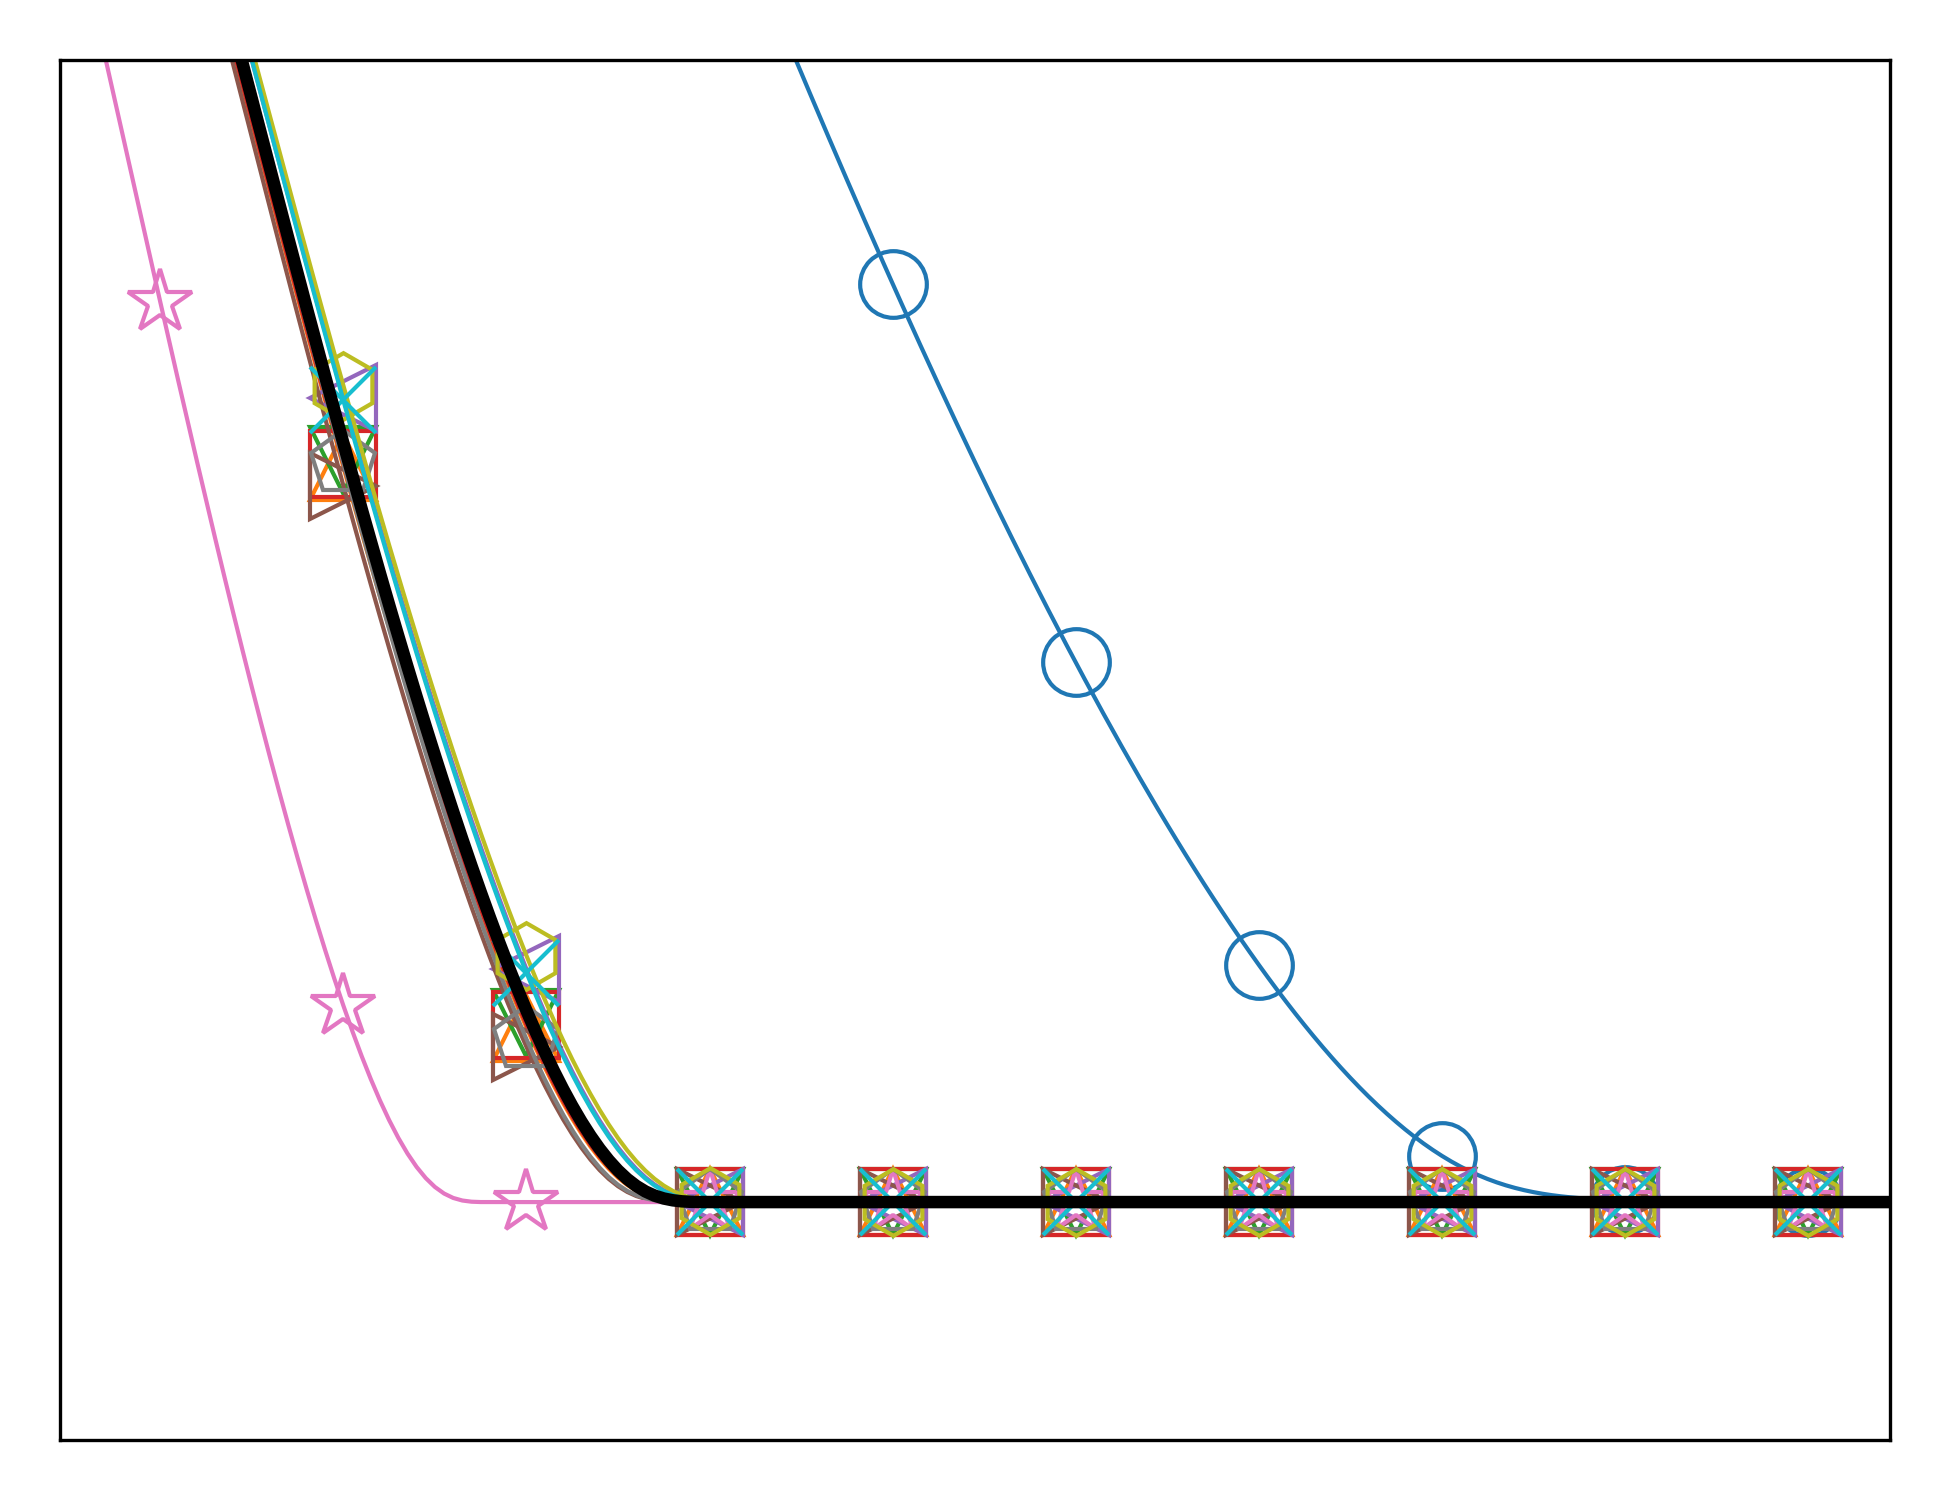
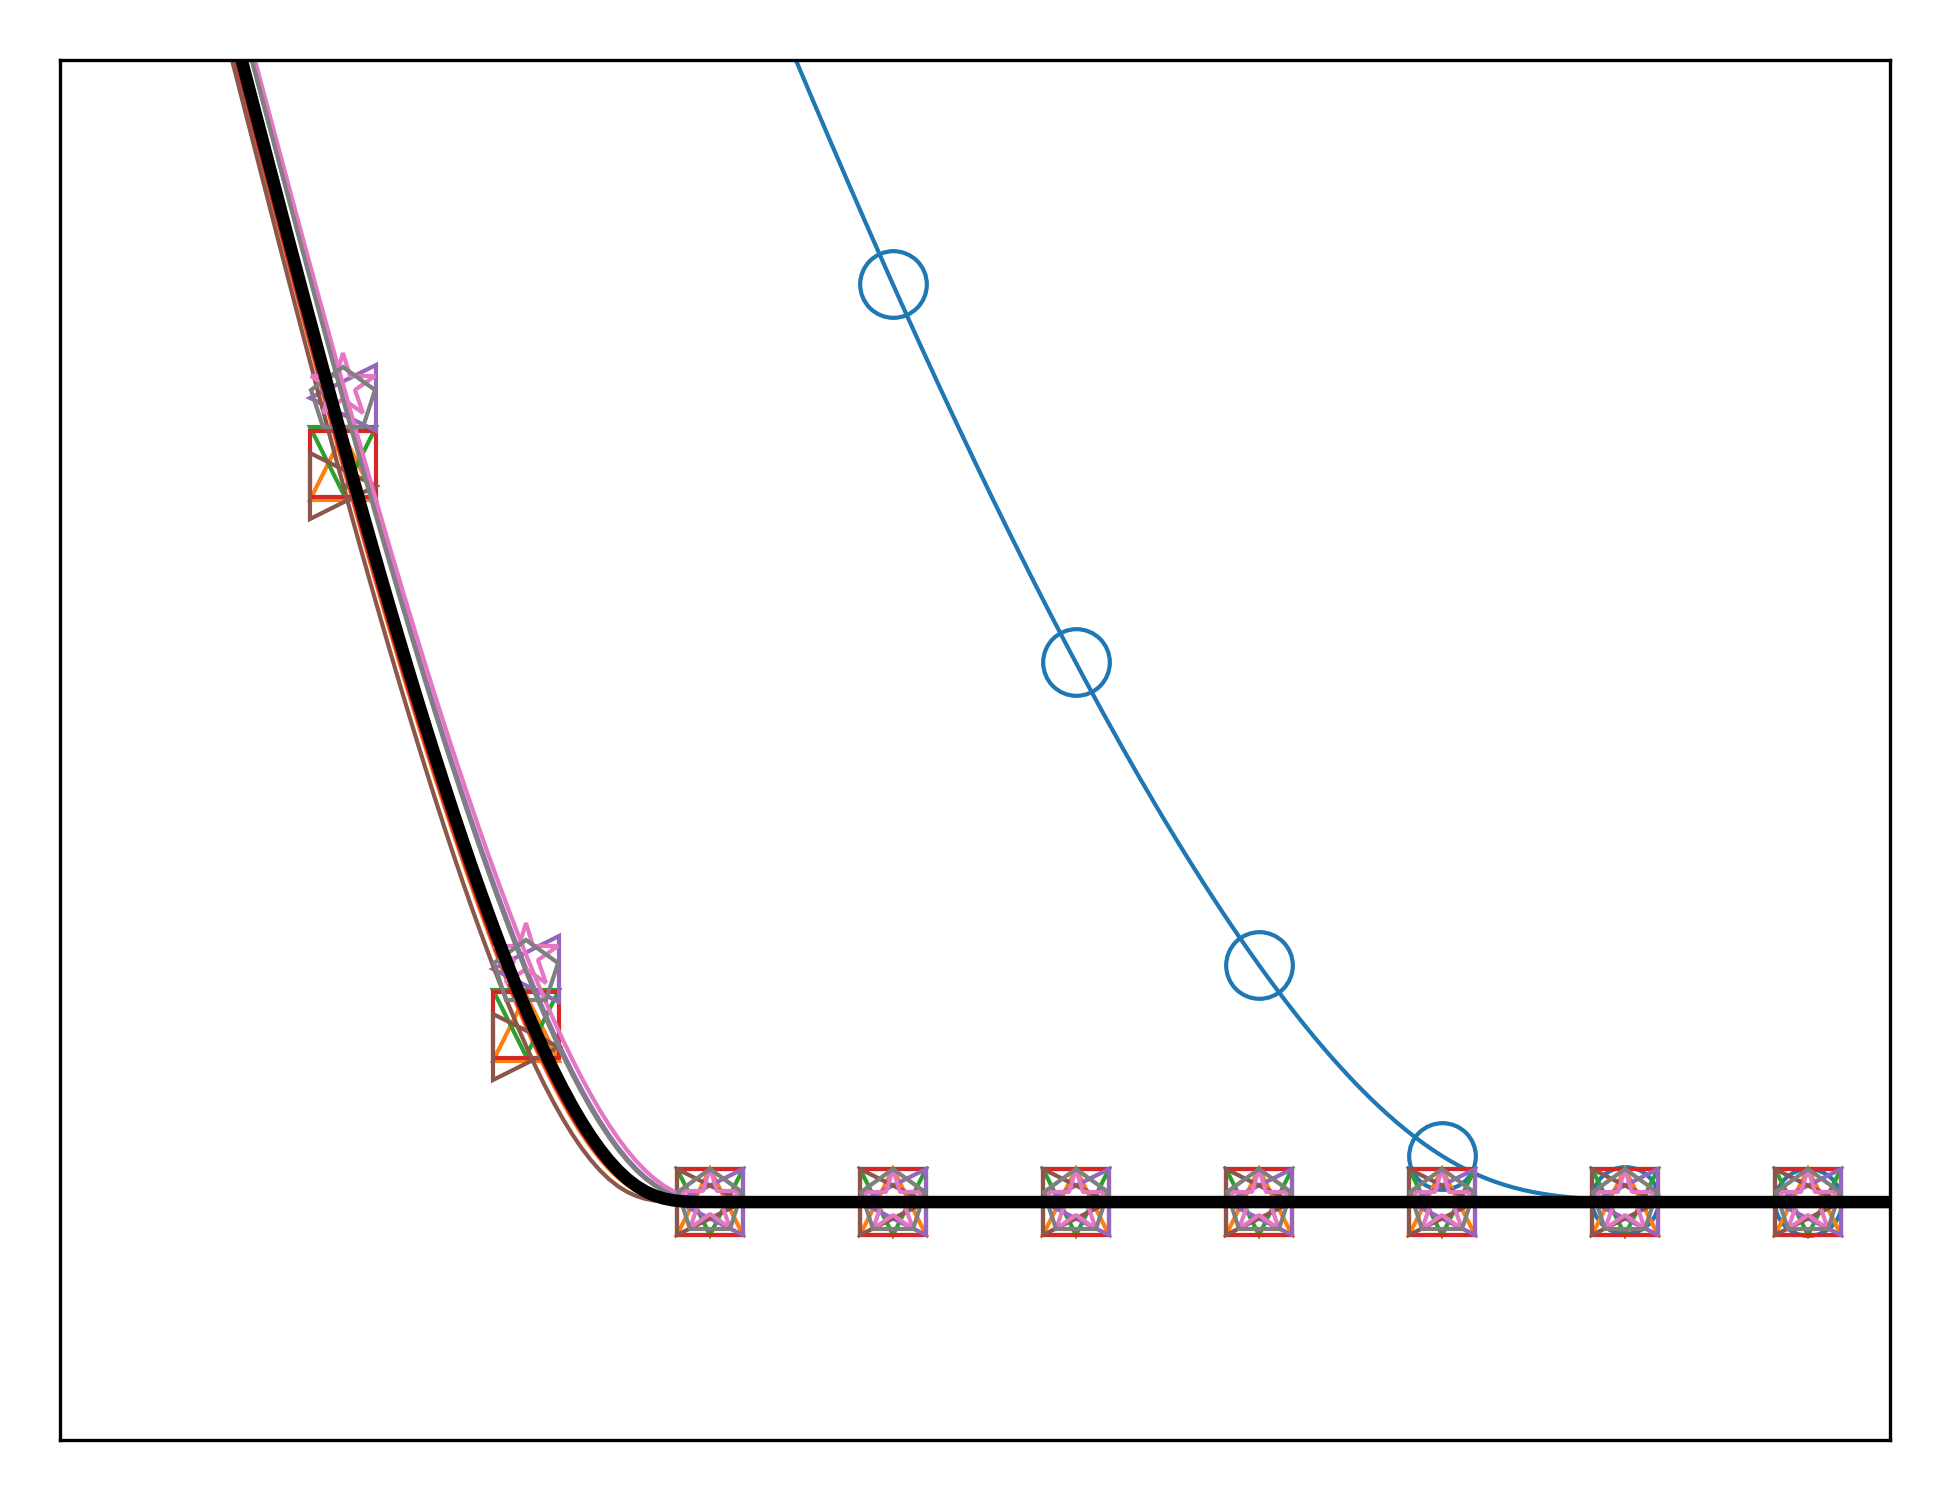
new figures

diff --git a/postProcessing/multiReactionCharring/1Reactions/postProcessing.py b/postProcessing/multiReactionCharring/1Reactions/postProcessing.py
@@ -24,11 +24,11 @@ tempCol = ['# Time [s]',' Temperature [C]']
 dfMass = []
 dfFT = []
 dfBT = []
-fileSeq = ['Nominal', '1Mass', '2Mass', '2MassTGA', '3Mass', 'FTBT', 'TGA', 'TGABT', 'TGABTRun1', 'TGABTRun2', 'BT']
+fileSeq = ['Nominal', '1Mass', '2Mass', '2MassTGA', '3Mass', 'FTBT', 'TGA', 'TGABTRun2', 'BT']
 heatFlux = ['10kW', '60kW', '100kW']
 # fileSeq = ['Nominal', 'TGADSC', '3Mass', 'TGA']
 # heatFlux = ['10kW', '100kW']
-legList = ['Virtual', '1Mass', '2Mass', '2Mass+TGA', '3Mass', '1Mass+FT+BT', '1Mass+TGA', '1Mass+TGA+BT', '1Mass+TGA+BT Run1', '1Mass+TGA+BT Run2', '1Mass+BT']
+legList = ['Virtual', '1Mass', '2Mass', '2Mass+TGA', '3Mass', '1Mass+FT+BT', '1Mass+TGA', '1Mass+TGA+BT', '1Mass+BT']
 # legList = ['Virtual', 'M+TGA+DSC', '3 M', 'M+TGA']
 tempSeq = ['FT', 'BT']
 
